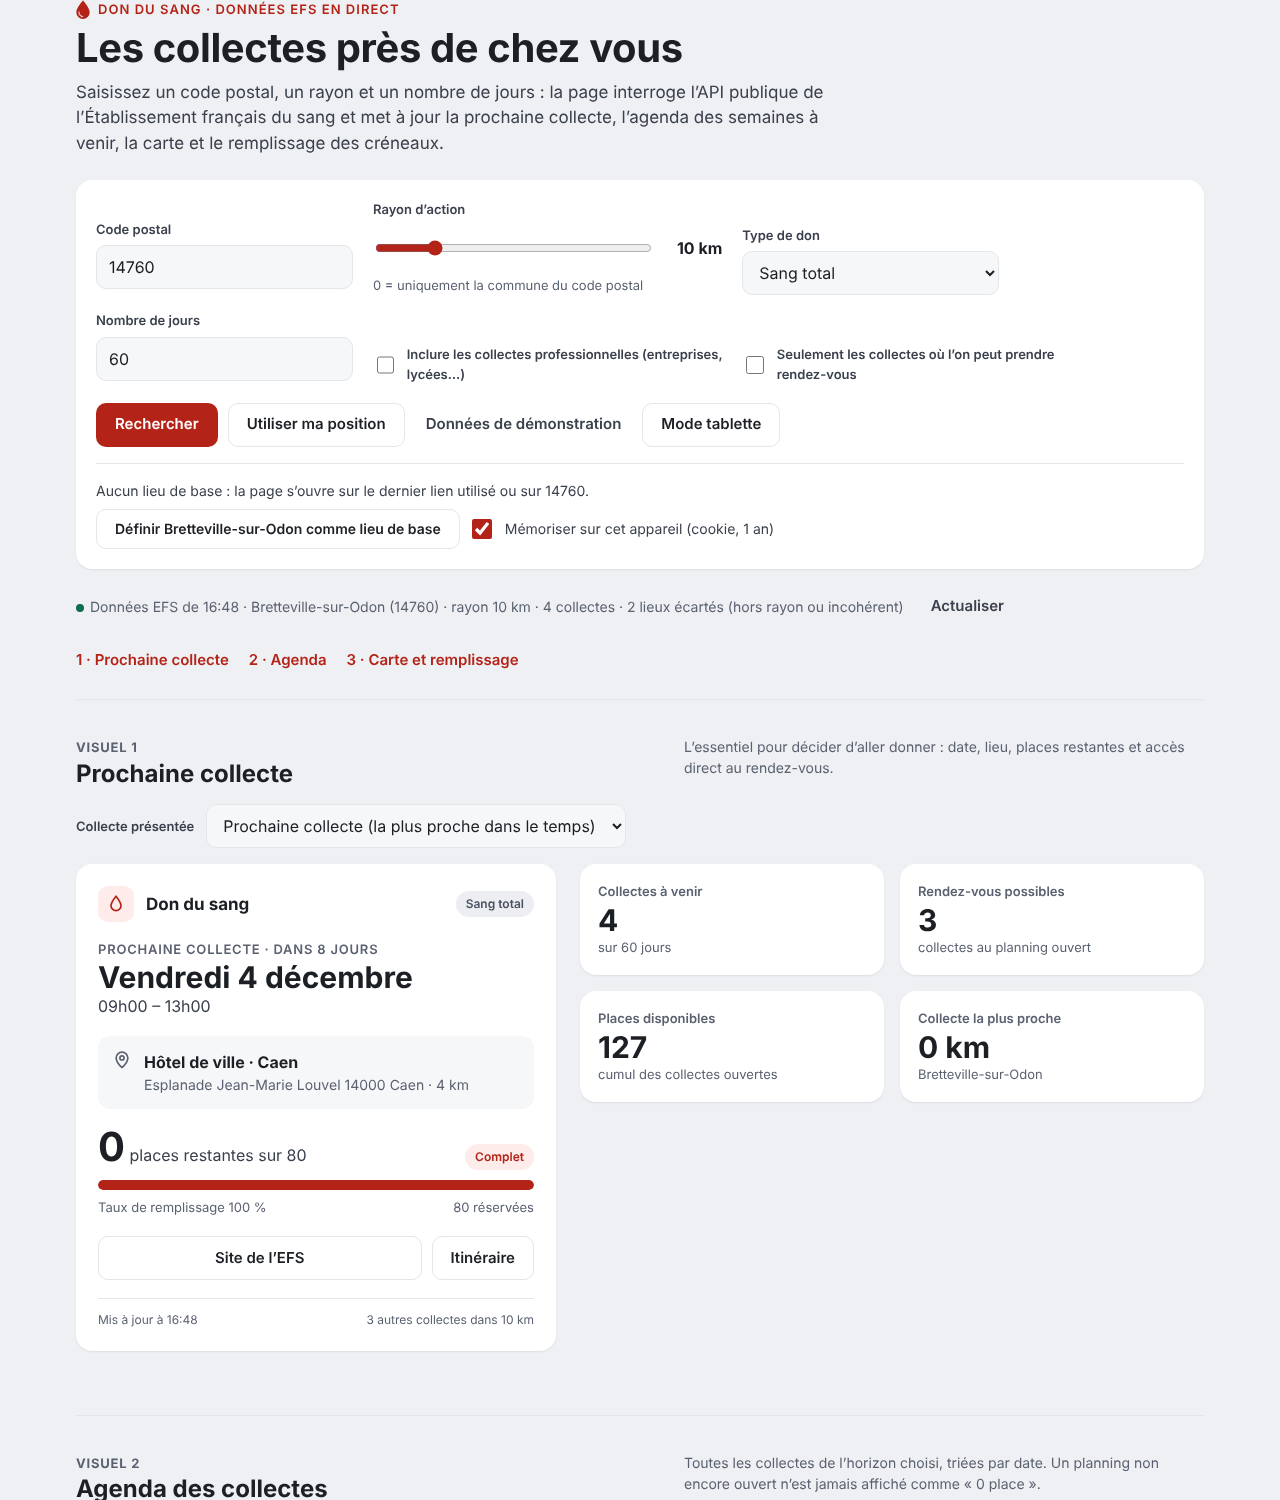
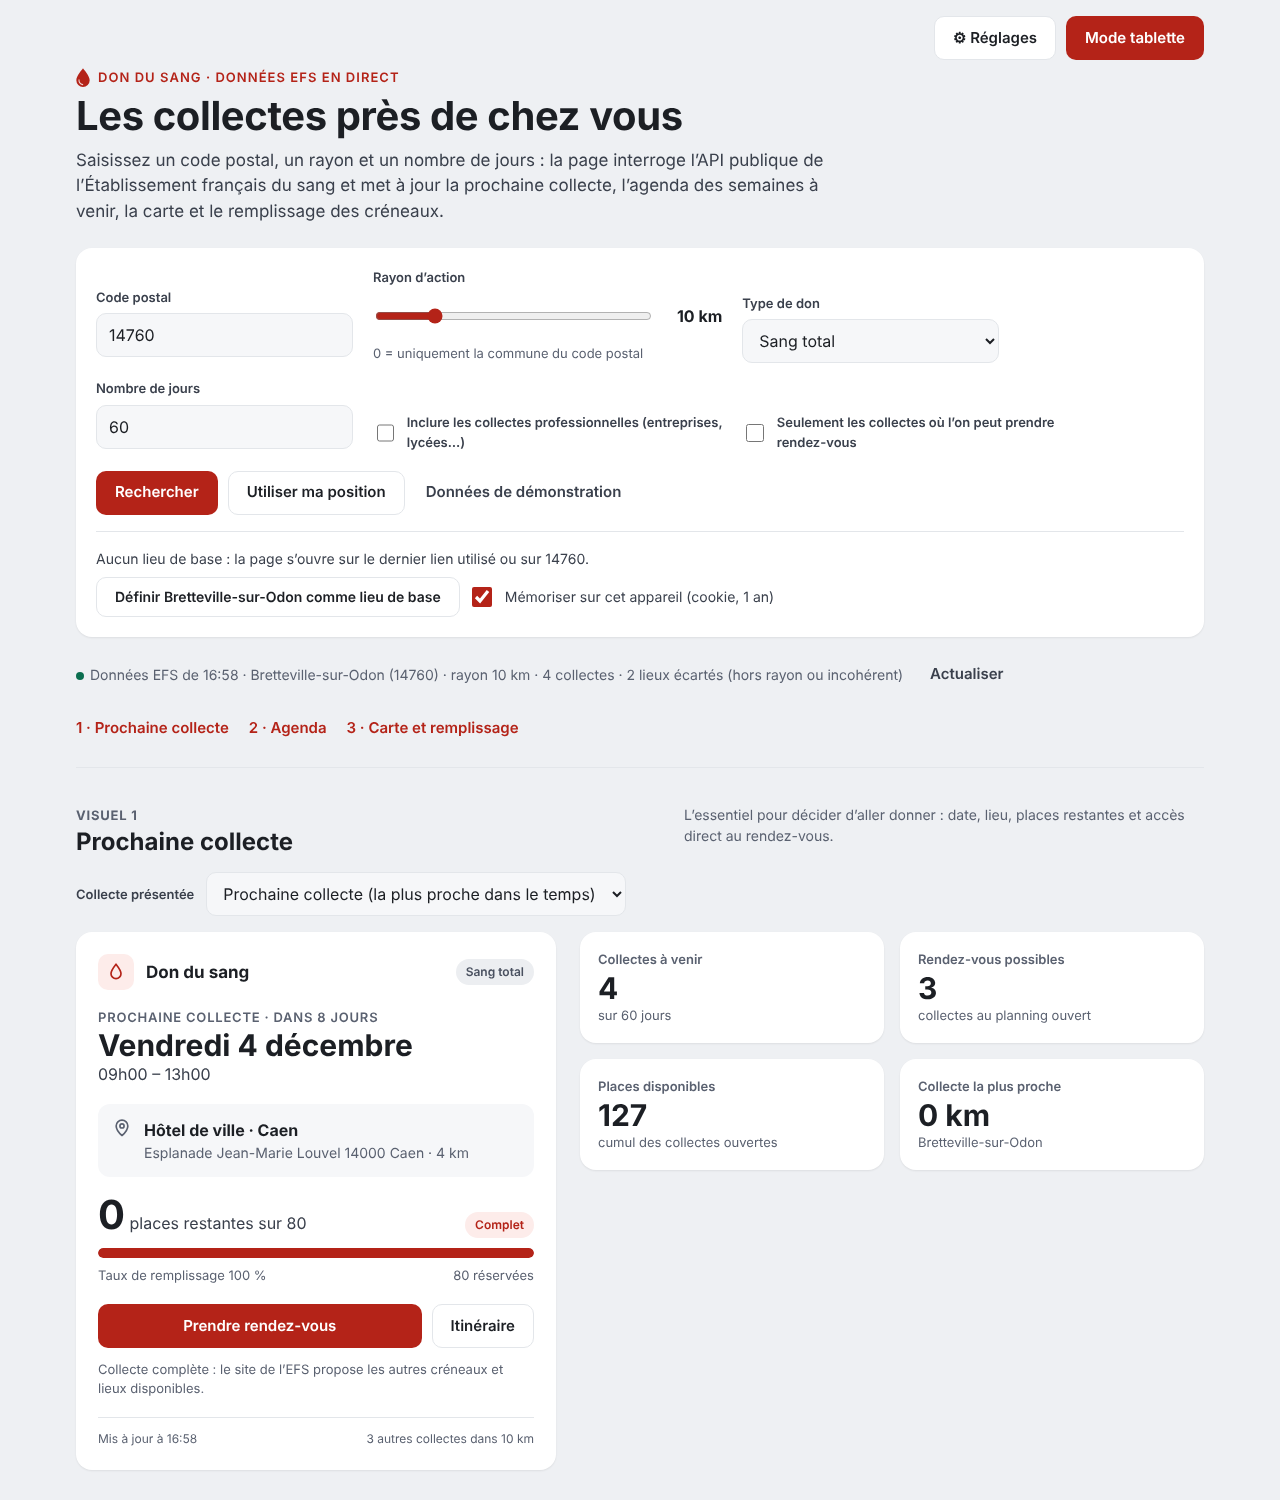
Page web : boutons Réglages et Mode tablette côte à côte, Prendre rendez-vous toujours proposé
- en-tête de la page : « ⚙ Réglages » et « Mode tablette » en haut à droite ;
  en mode tablette, « Page complète » ramène à la page normale
- prochaine collecte (page et tablette) : « Prendre rendez-vous » toujours affiché,
  lien direct de la collecte si planning ouvert, sinon page de réservation de
  l'EFS (trouver-une-collecte) avec explication (complet, planning non ouvert)
- documentation et captures mises à jour

Claude-Session: https://claude.ai/code/session_01882uboDzkT9kSx2WJVyJE4

diff --git a/site/js/app.js b/site/js/app.js
@@ -125,6 +125,29 @@
     host.replaceChildren(...nodes.flat().filter(Boolean));
   }
   const safeUrl = (u) => (typeof u === "string" && /^https:\/\//i.test(u) ? u : null);
+
+  // Prise de rendez-vous : lien direct de la collecte quand son planning est ouvert ;
+  // sinon, page de réservation du site de l'EFS (recherche de collecte, filtrée sur le sang total).
+  const EFS_RDV = "https://dondesang.efs.sante.fr/trouver-une-collecte";
+  function rendezVous(c) {
+    const direct = c.statut === C.STATUT.OUVERT ? safeUrl(c.lienRdv) : null;
+    if (direct) return { url: direct, note: null };
+    const url = state.don === "sang" ? `${EFS_RDV}?type_don=S` : EFS_RDV;
+    const note = c.statut === C.STATUT.COMPLET
+      ? "Collecte complète : le site de l’EFS propose les autres créneaux et lieux disponibles."
+      : c.statut === C.STATUT.NON_OUVERT
+        ? "Planning pas encore ouvert : la réservation se fera sur le site de l’EFS dès son ouverture."
+        : "Lien direct indisponible : réservation sur le site de l’EFS.";
+    return { url, note };
+  }
+  function boutonRdv(c, extraCls = "") {
+    const r = rendezVous(c);
+    return {
+      bouton: h("a", { class: `btn primary block ${extraCls}`.trim(), href: r.url, target: "_blank", rel: "noopener",
+        title: "Ouvre le site de l’Établissement français du sang pour réserver un créneau" }, "Prendre rendez-vous"),
+      note: r.note ? h("p", { class: "rdv-note" }, r.note) : null,
+    };
+  }
   const nf = new Intl.NumberFormat("fr-FR", { maximumFractionDigits: 1 });
   const km = (v) => `${nf.format(v)} km`;
   const pct = (v) => `${Math.round(v)} %`;
@@ -492,7 +515,7 @@
         `Aucune collecte à venir à ${titreCommune(voulue)}${state.rdvOnly ? " avec rendez-vous possible" : ""} : la prochaine collecte est affichée.`))
       : null;
     const open = c.placesRestantes !== null;
-    const rdv = c.statut === C.STATUT.OUVERT ? safeUrl(c.lienRdv) : null;
+    const rdv = boutonRdv(c);
     const others = list.length - 1;
 
     const card = h("article", { class: "card v1", "aria-label": "Prochaine collecte" },
@@ -525,10 +548,9 @@
           h("span", { style: { color: "var(--text-2)" } }, "Les rendez-vous ne sont pas encore ouverts pour cette collecte."),
           statusChip(c)),
       h("div", { class: "btns" },
-        rdv
-          ? h("a", { class: "btn primary block", href: rdv, target: "_blank", rel: "noopener" }, "Prendre rendez-vous")
-          : h("a", { class: "btn secondary block", href: "https://dondesang.efs.sante.fr", target: "_blank", rel: "noopener" }, "Site de l’EFS"),
+        rdv.bouton,
         h("a", { class: "btn secondary", href: directionsUrl(c), target: "_blank", rel: "noopener" }, "Itinéraire")),
+      rdv.note,
       h("div", { class: "row muted", style: { fontSize: "12px", borderTop: "1px solid var(--line)", paddingTop: "12px" } },
         h("span", null, state.demo ? "Données de démonstration" : `Mis à jour à ${fTime.format(state.fetchedAt)}`),
         h("span", null, others > 0 ? `${others} autre${others > 1 ? "s" : ""} collecte${others > 1 ? "s" : ""} ${communeSeule() ? "dans la commune" : `dans ${state.radius} km`}` : "Seule collecte de la période")),
@@ -879,7 +901,7 @@
         reglages()));
     } else {
       const ouvert = c.placesRestantes !== null;
-      const rdv = c.statut === C.STATUT.OUVERT ? safeUrl(c.lienRdv) : null;
+      const rdv = boutonRdv(c);
       const carte = h("article", { class: "card tab-carte", "aria-label": "Prochaine collecte" },
         h("div", { class: "row" },
           h("div", { class: "kicker" }, `${auLieu ? "Prochaine collecte ici" : "Prochaine collecte"} · ${relDay(daysUntil(c))}`),
@@ -894,8 +916,9 @@
               h("span", { style: { width: `${Math.min(100, c.taux)}%` } })) : null)
           : h("div", { class: "tab-heures" }, "Les rendez-vous ne sont pas encore ouverts."),
         h("div", { class: "btns" },
-          rdv ? h("a", { class: "btn primary block", href: rdv, target: "_blank", rel: "noopener" }, "Prendre rendez-vous") : null,
-          h("a", { class: "btn secondary", href: directionsUrl(c), target: "_blank", rel: "noopener" }, "Itinéraire")));
+          rdv.bouton,
+          h("a", { class: "btn secondary", href: directionsUrl(c), target: "_blank", rel: "noopener" }, "Itinéraire")),
+        rdv.note);
       const suite = list.filter((x) => x !== c && x.fin > now).slice(0, 5);
       const suiteCarte = h("article", { class: "card tab-suite", "aria-label": "Collectes suivantes" },
         h("h3", null, auLieu ? "Autres collectes du secteur" : "Collectes suivantes"),
@@ -1056,6 +1079,7 @@
     $("tablette-btn").addEventListener("click", () => enterTablette(Tab.read()));
     $("tab-quitter").addEventListener("click", exitTablette);
     $("tab-reglages").addEventListener("click", openReglages);
+    $("top-reglages").addEventListener("click", openReglages);
     $("reg-form").addEventListener("submit", saveReglages);
     $("reg-annuler").addEventListener("click", () => $("reglages").close());
     $("reg-oublier").addEventListener("click", forgetReglages);

diff --git a/site/index.html b/site/index.html
@@ -22,7 +22,7 @@
     <div class="tab-actions">
       <span class="tab-horloge" id="tab-horloge" aria-hidden="true"></span>
       <button class="btn secondary" type="button" id="tab-reglages">⚙ Réglages</button>
-      <button class="btn ghost" type="button" id="tab-quitter">Quitter</button>
+      <button class="btn secondary" type="button" id="tab-quitter">Page complète</button>
     </div>
   </div>
   <div class="tab-main" id="tab-main"><div class="skeleton"></div></div>
@@ -80,6 +80,10 @@
 </dialog>
 
 <header class="wrap">
+  <div class="top-actions">
+    <button class="btn secondary" type="button" id="top-reglages">⚙ Réglages</button>
+    <button class="btn primary" type="button" id="tablette-btn">Mode tablette</button>
+  </div>
   <p class="eyebrow brand"><svg class="logo" viewBox="34 0 188 256" aria-hidden="true"><path d="M128 2C120 16 38 104 38 166a90 90 0 0 0 180 0C218 104 136 16 128 2Z" fill="currentColor"/><path d="M74 158C72 190 92 216 124 224" fill="none" stroke="#fff" stroke-opacity=".8" stroke-width="14" stroke-linecap="round"/></svg>Don du sang · données EFS en direct</p>
   <h1>Les collectes près de chez vous</h1>
   <p class="lead">Saisissez un code postal, un rayon et un nombre de jours : la page interroge l’API publique de l’Établissement français du sang et met à jour la prochaine collecte, l’agenda des semaines à venir, la carte et le remplissage des créneaux.</p>
@@ -126,7 +130,6 @@
         <button class="btn primary" type="submit" id="go">Rechercher</button>
         <button class="btn secondary" type="button" id="geoloc">Utiliser ma position</button>
         <button class="btn ghost" type="button" id="demo">Données de démonstration</button>
-        <button class="btn secondary" type="button" id="tablette-btn">Mode tablette</button>
       </div>
     </div>
     <div class="base" id="base" aria-live="polite"></div>

diff --git a/site/css/styles.css b/site/css/styles.css
@@ -183,6 +183,9 @@ footer p{margin:0 0 6px}
 .notice.inline{margin:0 0 12px}
 
 /* v3.0 : champs invalides, mode tablette, fenêtre de réglages */
+header{position:relative}
+.top-actions{display:flex;justify-content:flex-end;gap:10px;padding-top:16px;margin-bottom:8px}
+.rdv-note{font-size:13px;color:var(--muted);margin:-6px 0 0}
 input[aria-invalid="true"]{border-color:var(--accent)}
 
 body.mode-tablette > header, body.mode-tablette > main, body.mode-tablette > footer{display:none}

diff --git a/MODE_OPERATOIRE.md b/MODE_OPERATOIRE.md
@@ -41,8 +41,9 @@ Règles de filtrage appliquées :
 
 ### Nouveautés de la version 3.0
 
-- **Mode tablette** (bouton « Mode tablette », ou adresse `…/?mode=tablette`). Affichage lisible de loin du **lieu de collecte choisi** : date, horaires, places restantes, jauge, bouton de rendez-vous, puis les autres collectes du secteur, l'heure et la mise à jour. Voir § 7.
+- **Mode tablette** (bouton « Mode tablette » en haut à droite, à côté de « ⚙ Réglages », ou adresse `…/?mode=tablette` ; « Page complète » ramène à la page normale). Affichage lisible de loin du **lieu de collecte choisi** : date, horaires, places restantes, jauge, bouton de rendez-vous, puis les autres collectes du secteur, l'heure et la mise à jour. Voir § 7.
 - **Réglages par bouton.** « ⚙ Réglages » ouvre une fenêtre avec le lieu initial (code postal, commune), le rayon, le nombre de jours, le type de don et le lieu de collecte affiché ; la liste des lieux se recalcule à chaque changement. « Enregistrer » les conserve dans le cookie `efs_tablette` (un an) ; la case « Ouvrir directement en mode tablette » fait démarrer la page en mode tablette sur cet appareil. « Oublier ces réglages » efface le cookie.
+- **Bouton « Prendre rendez-vous » toujours présent** sur la prochaine collecte (page et tablette) : lien direct quand le planning est ouvert, sinon page de réservation du site de l'EFS, avec une explication (planning non ouvert, collecte complète).
 - **Rayon 0 = uniquement la commune du code postal**, comme l'intégration Home Assistant 1.4.1 : la page interroge l'API à 10 km puis ne garde que les collectes de la commune. Le rayon 0 n'est pas proposé avec « Utiliser ma position » (pas de commune de référence).
 - **Nombre de jours** de 1 à 180 (champ libre, défaut 30) au lieu de l'ancienne liste 30/60/90/180. Une valeur hors bornes, ou un rayon hors 0–50 km dans les réglages, est signalée sous le champ et la recherche n'est pas lancée.
 - **Hébergement mutualisé** : relais PHP (`site/api/proxy.php`) et en-têtes de sécurité (`site/.htaccess`) pour publier la page sur un petit site web Apache + PHP, avec le même cache que nginx. Voir l'option D.
@@ -267,7 +268,8 @@ Ouvrir directement `index.html` par double-clic fonctionne généralement aussi,
 - [ ] L'affichage est correct sur téléphone et en mode sombre.
 - [ ] Rayon 0 avec 14760 : seules les collectes de Bretteville-sur-Odon restent ; le bandeau indique « Bretteville-sur-Odon seulement ».
 - [ ] Nombre de jours 200 : message sous le champ, aucune nouvelle recherche.
-- [ ] « Mode tablette » : la fenêtre de réglages s'ouvre ; choisir un lieu, « Enregistrer » ; recharger la page sans paramètre : elle s'ouvre en mode tablette sur ce lieu. « Quitter » revient à la page normale.
+- [ ] « Mode tablette » : la fenêtre de réglages s'ouvre ; choisir un lieu, « Enregistrer » ; recharger la page sans paramètre : elle s'ouvre en mode tablette sur ce lieu. « Page complète » revient à la page normale ; « Mode tablette » (en haut à droite) y retourne.
+- [ ] « Prendre rendez-vous » : collecte au planning ouvert → lien direct de la collecte ; collecte complète ou planning non ouvert → page de réservation du site de l'EFS, avec une phrase d'explication sous le bouton.
 - [ ] Option D : les deux adresses de vérification du relais renvoient du JSON.
 
 ## 5. Tests
@@ -289,8 +291,9 @@ Neuf scénarios portent sur la réponse enregistrée : géométrie, critères de
 1. Sur la tablette, ouvrir la page publiée (option B ou D, de préférence en HTTPS), puis toucher **Mode tablette** — ou ouvrir directement `https://collectes.mondomaine.fr/?mode=tablette` et l'enregistrer en favori.
 2. La fenêtre **Réglages de la tablette** s'ouvre au premier usage. Exemple : code postal `14760`, rayon `10`, nombre de jours `30`, type « Sang total », lieu de collecte « Salle polyvalente · Bretteville-sur-Odon ». Si le lieu voulu n'apparaît pas, augmenter le nombre de jours : la liste se recalcule aussitôt.
 3. Laisser cochée **Ouvrir directement en mode tablette sur cet appareil**, puis **Enregistrer**. Les réglages sont conservés un an dans le cookie `efs_tablette` de ce navigateur.
-4. Pour modifier le lieu initial, le rayon ou le nombre de jours : bouton **⚙ Réglages** en haut à droite. **Quitter** revient à la page normale pour la visite en cours, sans effacer les réglages ; « Oublier ces réglages » les efface.
-5. Affichage permanent (facultatif) :
+4. Pour modifier le lieu initial, le rayon ou le nombre de jours : bouton **⚙ Réglages** en haut à droite. **Page complète** revient à la page normale pour la visite en cours, sans effacer les réglages ; sur la page normale, les boutons **⚙ Réglages** et **Mode tablette**, côte à côte en haut à droite, permettent de régler la tablette et d'y revenir en un clic. « Oublier ces réglages » efface le cookie.
+5. **Prendre rendez-vous** : le bouton de la prochaine collecte ouvre le site de l'EFS dans un nouvel onglet. Planning ouvert : lien direct vers la collecte affichée, pour bloquer un créneau. Planning non encore ouvert ou collecte complète : page de réservation de l'EFS (« Trouver une collecte »), avec une phrase qui l'explique sous le bouton.
+6. Affichage permanent (facultatif) :
    - Android : ajouter la page à l'écran d'accueil (menu ⋮ → *Ajouter à l'écran d'accueil*), ou utiliser une application kiosque (*Fully Kiosk Browser*) avec l'adresse `…/?mode=tablette` et l'écran toujours allumé ;
    - iPad : Safari → Partager → *Sur l'écran d'accueil*, et *Accès guidé* (Réglages → Accessibilité) pour verrouiller l'écran sur la page.
 

diff --git a/README.md b/README.md
@@ -14,7 +14,7 @@ Code postal, rayon d’action (0 à 50 km), nombre de jours (1 à 180) et type d
 
 ### Mode tablette
 
-Affichage lisible de loin pour une tablette murale ou un écran d’accueil : la prochaine collecte du **lieu de collecte choisi** (date, horaires, places restantes, rendez-vous), les autres collectes du secteur, l’heure et la date de mise à jour. Les données se rafraîchissent seules toutes les heures.
+Le bouton **Mode tablette**, en haut à droite à côté de **⚙ Réglages**, bascule la page en affichage lisible de loin pour une tablette murale ou un écran d’accueil ; **Page complète** la ramène à l’affichage normal. On y voit la prochaine collecte du **lieu de collecte choisi** (date, horaires, places restantes, bouton **Prendre rendez-vous**), les autres collectes du secteur, l’heure et la date de mise à jour. Les données se rafraîchissent seules toutes les heures.
 
 ![Mode tablette en paysage : prochaine collecte à la Salle polyvalente de Bretteville-sur-Odon](images/tablette-paysage.png)
 
@@ -31,7 +31,8 @@ En portrait et en thème sombre (suivi automatique du thème de l’appareil) :
 - Recherche par code postal (choix de la commune si plusieurs) ou par géolocalisation, rayon de 0 à 50 km : **0 = uniquement les collectes de la commune du code postal**.
 - Nombre de jours de 1 à 180 (défaut 30) ; une valeur hors bornes est signalée, jamais remplacée sans le dire.
 - Type de don (sang, plasma, plaquettes), collectes professionnelles, filtre « rendez-vous ouverts ».
-- **Mode tablette** : lieu de collecte choisi, réglages par bouton, conservés dans un cookie ; adresse dédiée `?mode=tablette`.
+- **Mode tablette** : bascule en un clic (« Mode tablette » / « Page complète »), lieu de collecte choisi, réglages par bouton, conservés dans un cookie ; adresse dédiée `?mode=tablette`.
+- **Prendre rendez-vous** sur la prochaine collecte : lien direct quand le planning est ouvert, sinon page de réservation du site de l’EFS (planning non ouvert, collecte complète).
 - Lieu de base mémorisé à la demande (cookie `efs_lieu_base`) ; recherche conservée dans l’adresse (lien partageable).
 - Mode démonstration hors ligne, thème clair et sombre, affichage mobile.
 
